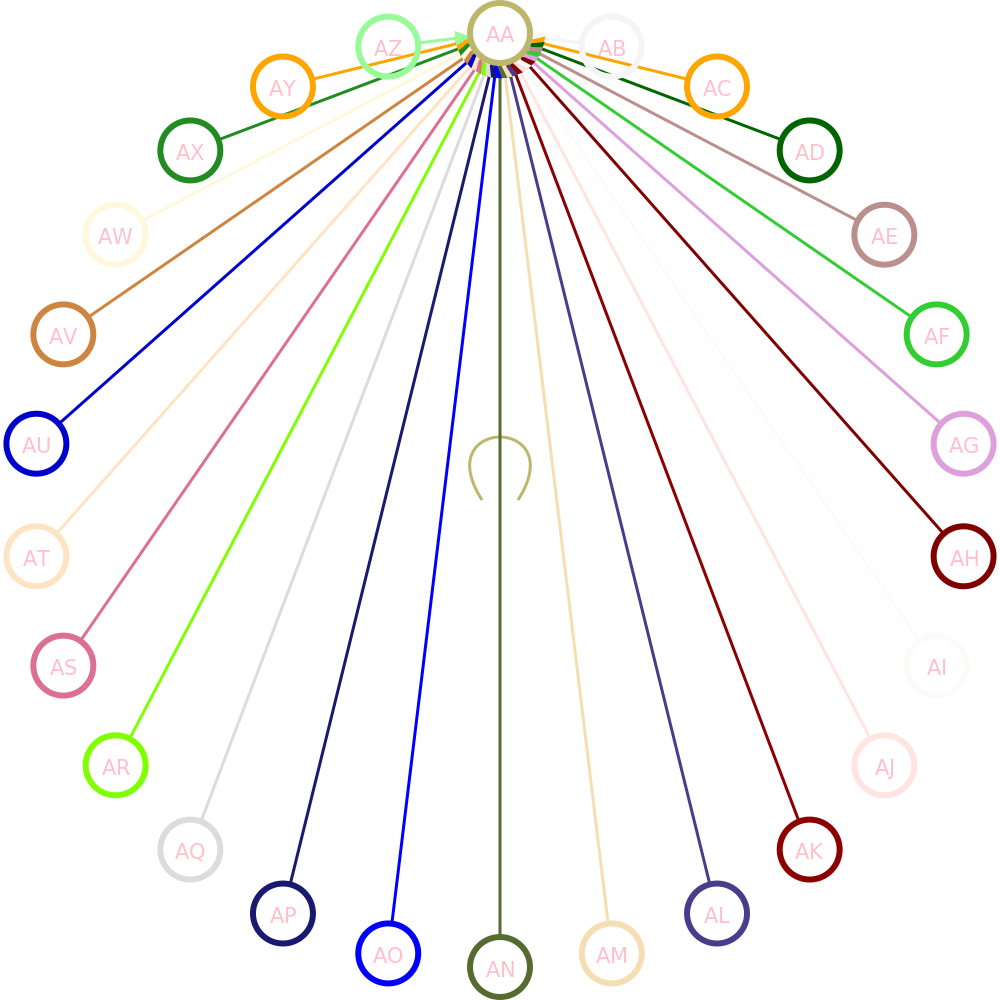
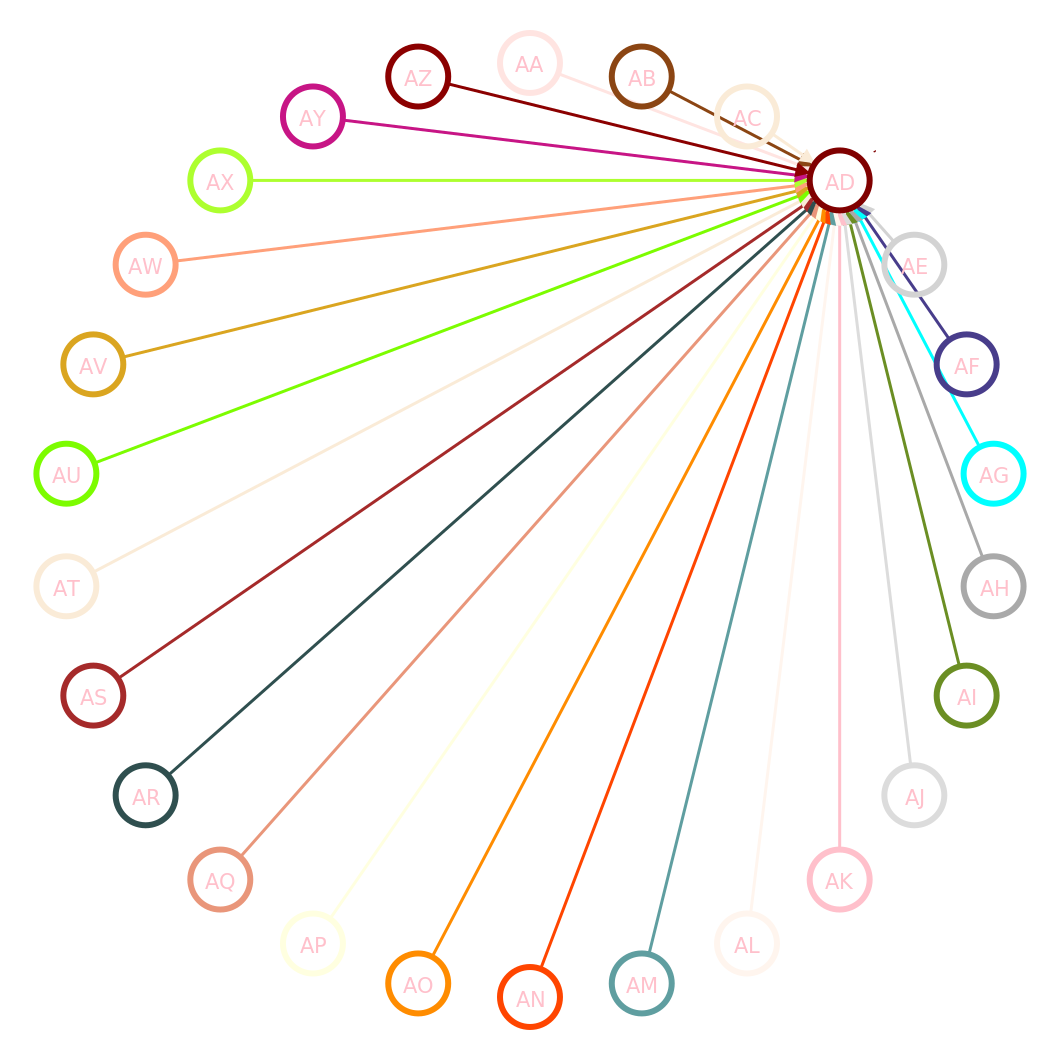
Day #4

diff --git a/web/index.html b/web/index.html
@@ -14,9 +14,7 @@
       <fieldset>
         <legend>Points</legend>
         <div class="form-part">
-          <label for="nb_of_point">
-            Number of points (at least 2):
-          </label>
+          <label for="nb_of_point"> Number of points (at least 2): </label>
           <input
             type="number"
             id="nb_of_point"
@@ -28,14 +26,27 @@
         </div>
         <div id="points-information">
           <label for="name-of-point">Name</label>
-          <label for="points-they-are-linked-to">Points they are linked to</label>
-          <input type="text" name="name-of-point" id="name-of-point" placeholder="A"/>
-          <input type="text" name="points-they-are-linked-to" id="points-they-are-linked-to" placeholder="A, B, C, ..." />
+          <label for="points-they-are-linked-to"
+            >Points they are linked to</label
+          >
+          <input
+            type="text"
+            name="name-of-point"
+            id="name-of-point"
+            placeholder="A"
+          />
+          <input
+            type="text"
+            name="points-they-are-linked-to"
+            id="points-they-are-linked-to"
+            placeholder="A, B, C, ..."
+          />
         </div>
       </fieldset>
       <fieldset>
         <legend>Image Settings</legend>
-        <div class="form-part"> <!-- Image Type-->
+        <div class="form-part">
+          <!-- Image Type-->
           <label for="image-type">Image Type:</label>
           <div>
             <input
@@ -60,7 +71,8 @@
             <label for="image-type-pdf">PDF</label>
           </div>
         </div>
-        <div class="form-part"> <!-- Label and Label-capitalized -->
+        <div class="form-part">
+          <!-- Label and Label-capitalized -->
           <input type="checkbox" id="label" class="pointer" checked />
           <label for="label">Show point names</label>
           <div class="form-part label-capitalize">
@@ -68,14 +80,16 @@
             <label for="label-capitalize">Catitalize points names</label>
           </div>
         </div>
-        <div class="form-part"> <!-- Main Color -->
+        <div class="form-part">
+          <!-- Main Color -->
           <label for="mainColorSelector">Main Color: </label>
           <select id="mainColorSelector" class="pointer">
             <option value="white">White</option>
             <option value="black">Black</option>
           </select>
         </div>
-        <div class="form-part"> <!-- Background Color -->
+        <div class="form-part">
+          <!-- Background Color -->
           <label for="backgroundColorSelector">Background Color: </label>
           <select id="backgroundColorSelector" class="pointer">
             <option value="transparent">Transparent</option>
@@ -95,8 +109,8 @@
       <fieldset>
         <legend>Result</legend>
         <img id="generated-image" />
-        <a href="" target="_blank"><button class="pointer">Download</button></a>
-        <a href="" target="_blank"><button class="pointer">Show</button></a>
+        <a href="" id="result-button" target="_blank" download=""><button class="pointer">Download</button></a>
+        <a href="" id="result-button" target="_blank"><button class="pointer">Show</button></a>
         <!-- TODO: Import href from Generate() -->
         <div class="embed">
           <p>Embed</p>

diff --git a/web/script.js b/web/script.js
@@ -21,16 +21,16 @@ function generate() {
         graphInputs += "\"" + points_informations[i].value + "\":[" + string_the_points_they_are_linked_to + "],";
     };
     // Part to get label
-    if (document.querySelector("#label").checked == true) { 
-        label = "True"; 
-    } else { 
-        label = "False"; 
+    if (document.querySelector("#label").checked == true) {
+        label = "True";
+    } else {
+        label = "False";
     };
     // Part to get labelCapitalized
-    if (document.querySelector("#label-capitalize").checked == true) { 
-        labelCapitalize = "True"; 
-    } else { 
-        labelCapitalize = "False"; 
+    if (document.querySelector("#label-capitalize").checked == true) {
+        labelCapitalize = "True";
+    } else {
+        labelCapitalize = "False";
     };
     // Part to get mainColor
     mainColor = document.querySelector("#mainColorSelector").value
@@ -40,10 +40,9 @@ function generate() {
 
     // Part to generate url
     url = "/image?fileType=" + fileType + "&graphInputs=" + graphInputs;
-
     document.querySelector("#generated-image").src = url;
+    document.querySelectorAll("#result-button").forEach(element => { element.setAttribute("href", url); });
     document.getElementById("result").style.display = "flex";
-    // TODO: Set href of show / download button here
 };
 
 

diff --git a/web/style.css b/web/style.css
@@ -15,7 +15,7 @@ form {
   max-width: 500px;
 }
 form div.form-part {
-  margin: 6px 0 14px 0;
+  margin: 6px 0 1.5em 0;
 }
 form fieldset {
   margin-bottom: 1em;
@@ -24,10 +24,10 @@ form fieldset {
 
 form #points-information {
   display: grid;
-  grid-template-columns: 10% 85%;
+  grid-template-columns: 1fr 5fr;
   justify-content: space-between;
-  width: -webkit-fill-available;
   gap: 5px;
+  column-gap: 40px
 }
 form #points-information div {
   display: flex;
@@ -35,7 +35,7 @@ form #points-information div {
 }
 form #points-information input {
   margin-bottom: 5px;
-
+  min-width: 0;
 }
 
 form .label-capitalize {

diff --git a/Maths2SVG/main copy.py b/Maths2SVG/main copy.py
@@ -100,19 +100,18 @@ def circularGraph(
                         strokeColor = mainColor
                     angle = math.atan2((graphInputs[arrow][0][1]),(graphInputs[arrow][0][0]))
                     print(angle, point[1], arrow)
-                    borderRadius = CircularGraphRadius+CircularGraphPointRadius
                     temp_points = (
-                        str((borderRadius+CircularGraphPointRadius*3/5)*math.cos(angle)), 
-                        str((borderRadius+CircularGraphPointRadius*3/5)*math.sin(angle)), 
-                        str((borderRadius+CircularGraphPointRadius*12/5)*math.cos(angle)), 
-                        str(CircularGraphPointRadius*14/5), 
-                        str(CircularGraphPointRadius*12/5), 
-                        str(CircularGraphPointRadius*14/5), 
-                        str(CircularGraphPointRadius*3/5), 
-                        str(0)
+                        str(round((centerxy)*math.cos(angle)+CircularGraphPointRadius*3/5)), 
+                        str(round((centerxy)*math.sin(angle))), 
+                        str(round((centerxy)*math.cos(angle)+CircularGraphPointRadius*12/5)), 
+                        str(round((centerxy)*math.sin(angle)+CircularGraphPointRadius*14/5)), 
+                        str(round((centerxy)*math.cos(angle)+CircularGraphPointRadius*12/5)), 
+                        str(round((centerxy)*math.sin(angle)+CircularGraphPointRadius*14/5)), 
+                        str(round((centerxy)*math.cos(angle)+CircularGraphPointRadius*3/5)), 
+                        str(round((centerxy)*math.sin(angle)))
                     )
-                    drawn_arrow = dwg.path(d="M-"+str(CircularGraphPointRadius*3/5)+","+str(0)+" C-"+str(CircularGraphPointRadius*12/5)+",-"+str(CircularGraphPointRadius*14/5)+" "+str(CircularGraphPointRadius*12/5)+",-"+str(CircularGraphPointRadius*14/5)+" "+str(CircularGraphPointRadius*3/5)+","+str(0), stroke=strokeColor, stroke_width=str(CircularGraphPointRadius/10))
-                    drawn_arrow.fill('white', opacity=0.0).stroke(strokeColor, opacity = globalOpacity)
+                    drawn_arrow = dwg.path(d="M"+temp_points[0]+","+temp_points[1]+" C"+temp_points[2]+","+temp_points[3]+" "+temp_points[4]+","+temp_points[5]+" "+temp_points[6]+","+temp_points[7], stroke=strokeColor, stroke_width=str(CircularGraphPointRadius/10))
+                    drawn_arrow.fill('white', opacity=0.0).stroke(strokeColor, opacity = globalOpacity).rotate(angle)
                     dwg.add(drawn_arrow)
 
     for point in enumerate(graphInputs.keys()):
@@ -142,16 +141,16 @@ def circularGraph(
 
     if 'svg' in fileType:
         print("Converting to SVG…")
-        cairosvg.svg2svg(url="./Maths2SVG/gengraph.svg", write_to="./doc/graph.svg", output_width=outputSize, output_height=outputSize)
+        cairosvg.svg2svg(url="./Maths2SVG/gengraph.svg", write_to="./doc/graph.svg", output_width=outputSize+2*CircularGraphPointRadius, output_height=outputSize+2*CircularGraphPointRadius)
     if 'png' in fileType:
         print("Converting to PNG…")
-        cairosvg.svg2png(url="./Maths2SVG/gengraph.svg", write_to="./doc/graph.png", output_width=outputSize, output_height=outputSize)
+        cairosvg.svg2png(url="./Maths2SVG/gengraph.svg", write_to="./doc/graph.png", output_width=outputSize+2*CircularGraphPointRadius, output_height=outputSize+2*CircularGraphPointRadius)
     if 'ps' in fileType:
         print("Converting to PS…")
-        cairosvg.svg2ps(url="./Maths2SVG/gengraph.svg", write_to="./doc/graph.ps", output_width=outputSize, output_height=outputSize)
+        cairosvg.svg2ps(url="./Maths2SVG/gengraph.svg", write_to="./doc/graph.ps", output_width=outputSize+2*CircularGraphPointRadius, output_height=outputSize+2*CircularGraphPointRadius)
     if 'pdf' in fileType: 
         print("Converting to PDF…")
-        cairosvg.svg2pdf(url="./Maths2SVG/gengraph.svg", write_to="./doc/graph.pdf", output_width=outputSize, output_height=outputSize)
+        cairosvg.svg2pdf(url="./Maths2SVG/gengraph.svg", write_to="./doc/graph.pdf", output_width=outputSize+2*CircularGraphPointRadius, output_height=outputSize+2*CircularGraphPointRadius)
     
     print("Circular graph : operation terminated.")
     return True
@@ -162,32 +161,32 @@ if __name__== "__main__":
     circularGraph(
         fileType='png', # Or a list
         graphInputs={
-        "aa":["aa"],
-        "ab":["aa"],
-        "ac":["aa"],
-        "ad":["aa"],
-        "ae":["aa"],
-        "af":["aa"],
-        "ag":["aa"],
-        "ah":["aa"],
-        "ai":["aa"],
-        "aj":["aa"],
-        "ak":["aa"],
-        "al":["aa"],
-        "am":["aa"],
-        "an":["aa"],
-        "ao":["aa"],
-        "ap":["aa"],
-        "aq":["aa"],
-        "ar":["aa"],
-        "as":["aa"],
-        "at":["aa"],
-        "au":["aa"],
-        "av":["aa"],
-        "aw":["aa"],
-        "ax":["aa"],
-        "ay":["aa"],
-        "az":["aa"],
+        "aa":["ad"],
+        "ab":["ad"],
+        "ac":["ad"],
+        "ad":["ad"],
+        "ae":["ad"],
+        "af":["ad"],
+        "ag":["ad"],
+        "ah":["ad"],
+        "ai":["ad"],
+        "aj":["ad"],
+        "ak":["ad"],
+        "al":["ad"],
+        "am":["ad"],
+        "an":["ad"],
+        "ao":["ad"],
+        "ap":["ad"],
+        "aq":["ad"],
+        "ar":["ad"],
+        "as":["ad"],
+        "at":["ad"],
+        "au":["ad"],
+        "av":["ad"],
+        "aw":["ad"],
+        "ax":["ad"],
+        "ay":["ad"],
+        "az":["ad"],
         # "ba":["aa"],
         # "bb":["aa"],
         # "bc":["aa"],

diff --git a/app.py b/app.py
@@ -22,4 +22,4 @@ def return_js():
     return send_file('web/script.js')
 
 if __name__ == '__main__':
-    app.run(debug=True, threaded=False)
+    app.run(debug=F, threaded=False)
